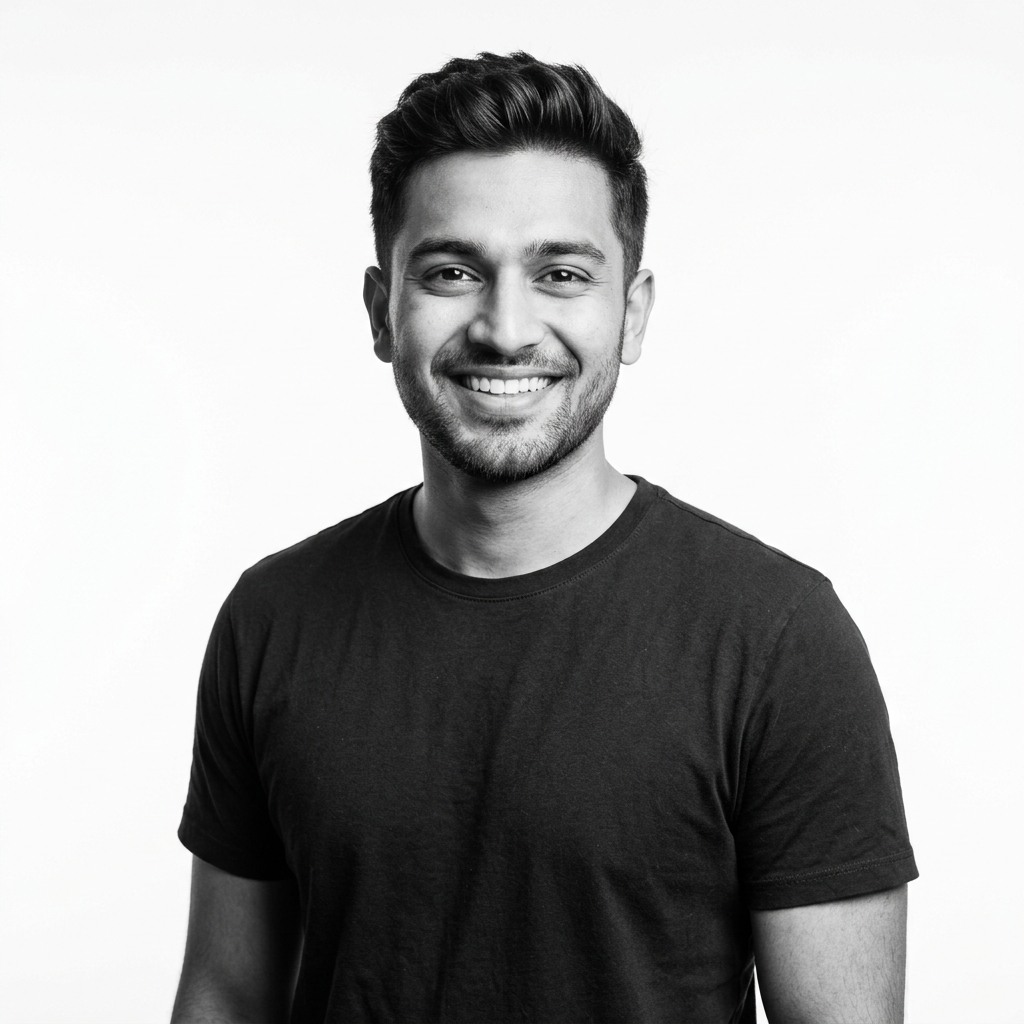
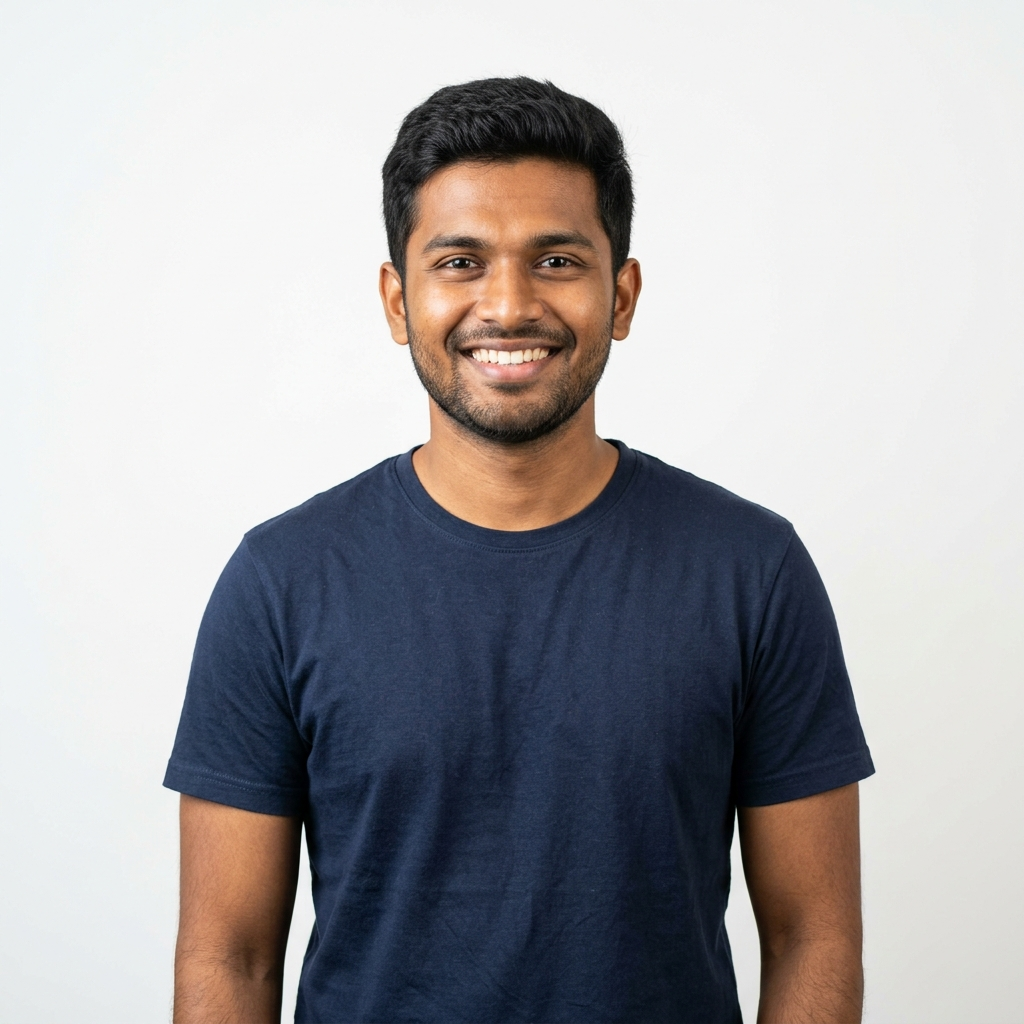
background added

diff --git a/app/(public)/contributors/page.tsx b/app/(public)/contributors/page.tsx
@@ -8,7 +8,19 @@ import {
   Code2,
   Terminal,
   Cpu,
-  ArrowRight
+  ArrowRight,
+  Award,
+  GraduationCap,
+  MonitorPlay,
+  Lightbulb,
+  Laptop,
+  Headset,
+  Presentation,
+  Library,
+  Brain,
+  PencilRuler,
+  BookOpen,
+  Video
 } from "lucide-react";
 import BlurText from "@/components/BlurText";
 
@@ -35,8 +47,39 @@ export default function ContributorsPage() {
     <main className="min-h-screen arcade-wash selection:bg-blue-100 selection:text-[#205ca8] flex flex-col relative overflow-hidden">
       
       {/* ── HERO SECTION WITH SOFT GRADIENT WASH ── */}
-      <div className="w-full border-b border-slate-100/50 min-h-screen flex flex-col items-center justify-center">
-        <div className="mx-auto max-w-7xl px-5 sm:px-8 w-full">
+      <div className="relative w-full border-b border-slate-100/50 min-h-screen flex flex-col items-center justify-center overflow-hidden">
+        
+        {/* Floating Decorative Icons (Educational Theme) */}
+        <div className="absolute inset-0 pointer-events-none z-0">
+          <motion.div animate={{ y: [0, -15, 0] }} transition={{ duration: 4, repeat: Infinity, ease: "easeInOut", delay: 0 }} className="absolute top-[20%] left-[10%] sm:left-[15%] text-slate-400/20">
+            <GraduationCap size={64} strokeWidth={1.5} />
+          </motion.div>
+          <motion.div animate={{ y: [0, 15, 0] }} transition={{ duration: 5, repeat: Infinity, ease: "easeInOut", delay: 1 }} className="absolute top-[60%] left-[5%] sm:left-[10%] text-slate-400/20">
+            <Laptop size={56} strokeWidth={1.5} />
+          </motion.div>
+          <motion.div animate={{ y: [0, -20, 0] }} transition={{ duration: 6, repeat: Infinity, ease: "easeInOut", delay: 2 }} className="absolute bottom-[15%] left-[20%] sm:left-[25%] text-slate-400/20">
+            <BookOpen size={48} strokeWidth={1.5} />
+          </motion.div>
+          
+          <motion.div animate={{ y: [0, -10, 0] }} transition={{ duration: 4.5, repeat: Infinity, ease: "easeInOut", delay: 0.5 }} className="absolute top-[15%] right-[15%] sm:right-[20%] text-slate-400/20">
+            <Lightbulb size={56} strokeWidth={1.5} />
+          </motion.div>
+          <motion.div animate={{ y: [0, 20, 0] }} transition={{ duration: 5.5, repeat: Infinity, ease: "easeInOut", delay: 1.5 }} className="absolute top-[50%] right-[5%] sm:right-[10%] text-slate-400/20">
+            <Brain size={64} strokeWidth={1.5} />
+          </motion.div>
+          <motion.div animate={{ y: [0, -15, 0] }} transition={{ duration: 6.5, repeat: Infinity, ease: "easeInOut", delay: 2.5 }} className="absolute bottom-[20%] right-[20%] sm:right-[25%] text-slate-400/20">
+            <Award size={48} strokeWidth={1.5} />
+          </motion.div>
+
+          <motion.div animate={{ y: [0, 10, 0] }} transition={{ duration: 4, repeat: Infinity, ease: "easeInOut", delay: 1 }} className="absolute top-[30%] left-[25%] sm:left-[30%] text-slate-400/15">
+            <Presentation size={40} strokeWidth={1.5} />
+          </motion.div>
+          <motion.div animate={{ y: [0, -12, 0] }} transition={{ duration: 5, repeat: Infinity, ease: "easeInOut", delay: 2 }} className="absolute top-[35%] right-[30%] sm:right-[35%] text-slate-400/15">
+            <MonitorPlay size={40} strokeWidth={1.5} />
+          </motion.div>
+        </div>
+
+        <div className="mx-auto max-w-7xl px-5 sm:px-8 w-full relative z-10">
           <div className="max-w-4xl mx-auto space-y-8 text-center -mt-16">
             <BlurText
               text="Made Better Together."
@@ -64,7 +107,7 @@ export default function ContributorsPage() {
       </div>
 
       {/* --- CONTRIBUTORS GRID --- */}
-      <section className="relative px-4 sm:px-6 lg:px-8 pb-32 max-w-5xl mx-auto w-full z-10 -mt-10">
+      <section className="relative px-4 sm:px-6 lg:px-8 pt-16 sm:pt-24 pb-32 max-w-5xl mx-auto w-full z-10">
         <div className="flex flex-col md:flex-row justify-center items-center md:items-start gap-8 md:gap-10">
           {CONTRIBUTORS_DATA.map((contributor, idx) => (
             <motion.div
@@ -73,10 +116,10 @@ export default function ContributorsPage() {
               whileInView={{ opacity: 1, y: 0 }}
               viewport={{ once: true, margin: "-50px" }}
               transition={{ duration: 0.7, delay: idx * 0.2, ease: "easeOut" }}
-              className={`relative w-60 sm:w-64 h-[380px] sm:h-[400px] rounded-full flex flex-col items-center pt-10 sm:pt-12 overflow-hidden shadow-2xl hover:-translate-y-4 transition-transform duration-500 cursor-default ${contributor.color} ${idx % 2 === 1 ? 'md:mt-16' : 'md:mt-0'}`}
+              className={`group relative w-60 sm:w-64 h-[380px] sm:h-[400px] rounded-full flex flex-col items-center pt-10 sm:pt-12 overflow-hidden shadow-2xl hover:-translate-y-4 transition-transform duration-500 cursor-default ${contributor.color} ${idx % 2 === 1 ? 'md:mt-16' : 'md:mt-0'}`}
             >
               <div className="text-center z-10 px-5">
-                <h3 className="text-[1.05rem] sm:text-lg font-black text-slate-900 uppercase tracking-widest leading-tight">{contributor.name}</h3>
+                <h3 className="text-[1.05rem] sm:text-lg font-black text-slate-900 uppercase tracking-widest leading-tight group-hover:text-slate-800 transition-colors">{contributor.name}</h3>
                 <p className="text-xs sm:text-sm font-semibold text-slate-800/80 mt-1.5">{contributor.role}</p>
               </div>
               
@@ -85,7 +128,7 @@ export default function ContributorsPage() {
                    src={contributor.avatar}
                    alt={contributor.name}
                    fill
-                   className="object-cover object-top grayscale contrast-[1.1] brightness-[1.05] drop-shadow-2xl mix-blend-multiply opacity-90"
+                   className="object-cover object-top grayscale group-hover:grayscale-0 contrast-[1.1] group-hover:contrast-100 brightness-[1.05] group-hover:brightness-100 drop-shadow-2xl mix-blend-multiply group-hover:mix-blend-normal opacity-90 group-hover:opacity-100 transition-all duration-500"
                    unoptimized
                 />
               </div>

diff --git a/app/(public)/contributors/contributorsData.ts b/app/(public)/contributors/contributorsData.ts
@@ -13,21 +13,21 @@ export const CONTRIBUTORS_DATA: Contributor[] = [
     id: "contributor-1",
     name: "Fr. Rubin Tottupuram",
     role: "Visionary & Leader",
-    avatar: "/team/fr_rubin.png",
+    avatar: "/team/fr_rubin.png?v=2",
     color: "bg-[#ef5350]" // Lighter Red
   },
   {
     id: "contributor-2",
     name: "Lisha Varghese",
     role: "Project Manager",
-    avatar: "/team/lisha_varghese.png",
+    avatar: "/team/lisha_varghese.png?v=2",
     color: "bg-[#f0f0f0]" // Lighter Gray
   },
   {
     id: "contributor-3",
     name: "Amal K Jose",
     role: "Lead Developer",
-    avatar: "/team/amal_jose.png",
+    avatar: "/team/amal_jose.png?v=2",
     color: "bg-[#ffca28]" // Lighter Yellow
   }
 ];
